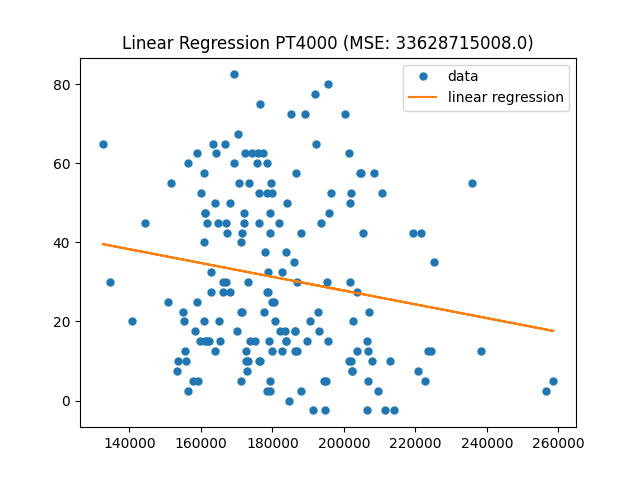
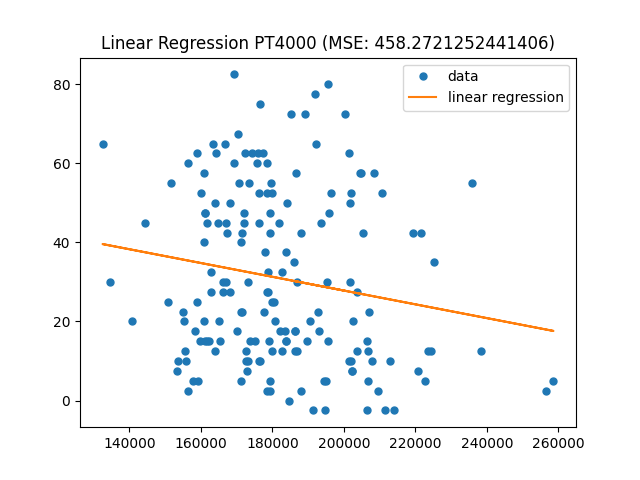
multivariate linear

Changed region(s): [[0.1562, 0.0625, 0.875, 0.125]]

diff --git a/Utils/DataManager.py b/Utils/DataManager.py
@@ -2,6 +2,8 @@ import nibabel as nib
 import numpy as np
 import pandas as pd
 import torch
+import matplotlib.pyplot as plt
+import copy
 
 class DataManager:
     def __init__(self):
@@ -15,6 +17,7 @@ class DataManager:
         imgs = []
         for i in range(1,172):
             img = nib.load(f'./dataset/n171_smwp1/smwp10{i:03}_T1.nii').get_fdata()
+            plt.show()
             imgs.append(img)
         imgArray = np.array([np.array([img],dtype=np.float32) for img in imgs])
         
@@ -27,3 +30,28 @@ class DataManager:
         pt500t = torch.tensor(df["PT500"].to_numpy(dtype=np.float32), dtype=torch.float32).reshape(-1, 1)
         pt4000t = torch.tensor(df["PT4000"].to_numpy(dtype=np.float32), dtype=torch.float32).reshape(-1, 1)
         return pt500t, pt500, pt4000t, pt4000
+    
+    def get_img_spatial_features(self):
+        height_step = self.img_h // 3
+        width_step = self.img_w // 3
+        depth_step = self.img_d // 3
+
+        spatial_features = []
+        block_sums = []
+        for img in self.imgs:
+            block_sums.clear()
+            for y in range(0, 3):
+                for x in range(0, 3):
+                    for z in range(0, 3):
+                        y_start = y*height_step
+                        x_start = x*width_step
+                        z_start = z*depth_step
+                        block = img[:,y_start:y_start+height_step,x_start:x_start+width_step,z_start:z_start+depth_step]
+                        block_sums.append(np.sum(block.flatten()))
+            spatial_features.append(copy.deepcopy(block_sums))
+
+        return np.array(spatial_features)
+
+
+                        
+

diff --git a/multilinear.py b/multilinear.py
@@ -1,0 +1,34 @@
+from Utils.DataManager import DataManager
+import numpy as np
+import matplotlib.pyplot as plt
+from sklearn.linear_model import LinearRegression
+from sklearn.metrics import mean_squared_error
+
+dm = DataManager()
+
+x = dm.get_img_spatial_features()
+print(x.shape)
+y = dm.pt_500_a
+
+lr = LinearRegression()
+lr.fit(x.reshape(171,27),y.reshape(-1,1))
+
+y_lr = lr.predict(x.reshape(171,27))
+
+f1 = plt.figure()
+plt.plot(x,y,'.',markersize=10, label='data')
+
+plt.title(f"Multi-Linear Regression PT500 (MSE: {mean_squared_error(y, y_lr)})")
+
+y2 = dm.pt_4000_a
+
+lr2 = LinearRegression()
+lr2.fit(x.reshape(171,27),y2.reshape(-1,1))
+
+y2_lr = lr2.predict(x.reshape(171,27))
+
+f2 = plt.figure()
+plt.plot(x,y2,'.',markersize=10, label='data')
+
+plt.title(f"Multi-Linear Regression PT4000 (MSE: {mean_squared_error(y2, y2_lr)})") 
+plt.show()

diff --git a/cnn.py b/cnn.py
@@ -10,7 +10,7 @@ import copy
 
 dm = DataManager()
 
-X_train, X_test, y_train, y_test = train_test_split(dm.imgs, dm.pt_4000, test_size=0.33, random_state=42)
+X_train, X_test, y_train, y_test = train_test_split(dm.imgs, dm.pt_500, test_size=0.33, random_state=42)
 
 train_data = [(X_train[i], y_train[i]) for i in range(0, len(X_train))]
 test_data = [(X_test[i], y_test[i]) for i in range(0, len(X_test))]
@@ -20,8 +20,7 @@ validation_loader = torch.utils.data.DataLoader(test_data, batch_size=4, shuffle
  
 model = cnn3d()
 
-# loss function and optimizer
-loss_fn = nn.MSELoss()  # mean square error
+loss_fn = nn.MSELoss()
 optimizer = torch.optim.Adam(model.parameters(), lr=0.001)
  
 n_epochs = 100   # number of epochs to run

diff --git a/Models/cnn3d.py b/Models/cnn3d.py
@@ -15,8 +15,8 @@ class cnn3d(nn.Module):
         self.fc1_norm = nn.BatchNorm1d(256)
         self.full_conn2 = nn.Linear(256, 1)
         self.relu = nn.ReLU()
-        self.drop1 = nn.Dropout3d(0.25)
-        self.drop2 = nn.Dropout(0.5)
+        # self.drop1 = nn.Dropout3d(0.25)
+        # self.drop2 = nn.Dropout(0.5)
 
     def _def_cnv_layer(self, i_c, o_c):
         cnv_layer = nn.Sequential(
@@ -39,7 +39,6 @@ class cnn3d(nn.Module):
         x = self.cnv2_norm(x)
         x = self.cnv3(x)
         x = self.cnv3_norm(x)
-        x = self.drop1(x)
         x = torch.flatten(x,1)
         x = self.full_conn1(x)
         x = self.relu(x)

diff --git a/linear.py b/linear.py
@@ -23,7 +23,7 @@ plt.plot(x,y,'.',markersize=10, label='data')
 plt.plot(x,y_lr, '-', label='linear regression') 
 
 plt.legend()
-plt.title(f"Linear Regression PT500 (MSE: {mean_squared_error(x, y_lr)})")
+plt.title(f"Linear Regression PT500 (MSE: {mean_squared_error(y, y_lr)})")
 
 y2 = dm.pt_4000_a
 
@@ -37,7 +37,7 @@ plt.plot(x,y2,'.',markersize=10, label='data')
 plt.plot(x,y2_lr, '-', label='linear regression') 
 
 plt.legend()
-plt.title(f"Linear Regression PT4000 (MSE: {mean_squared_error(x, y2_lr)})") 
+plt.title(f"Linear Regression PT4000 (MSE: {mean_squared_error(y2, y2_lr)})") 
 plt.show()
 
 
